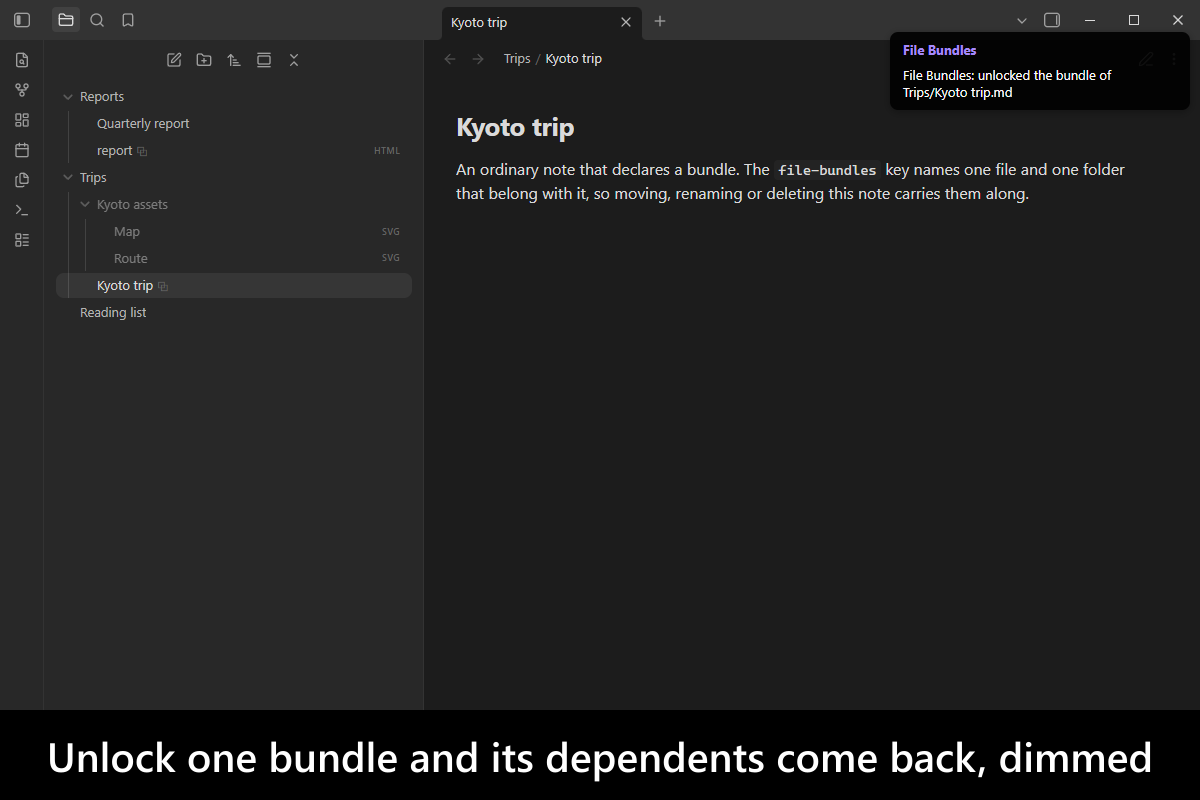
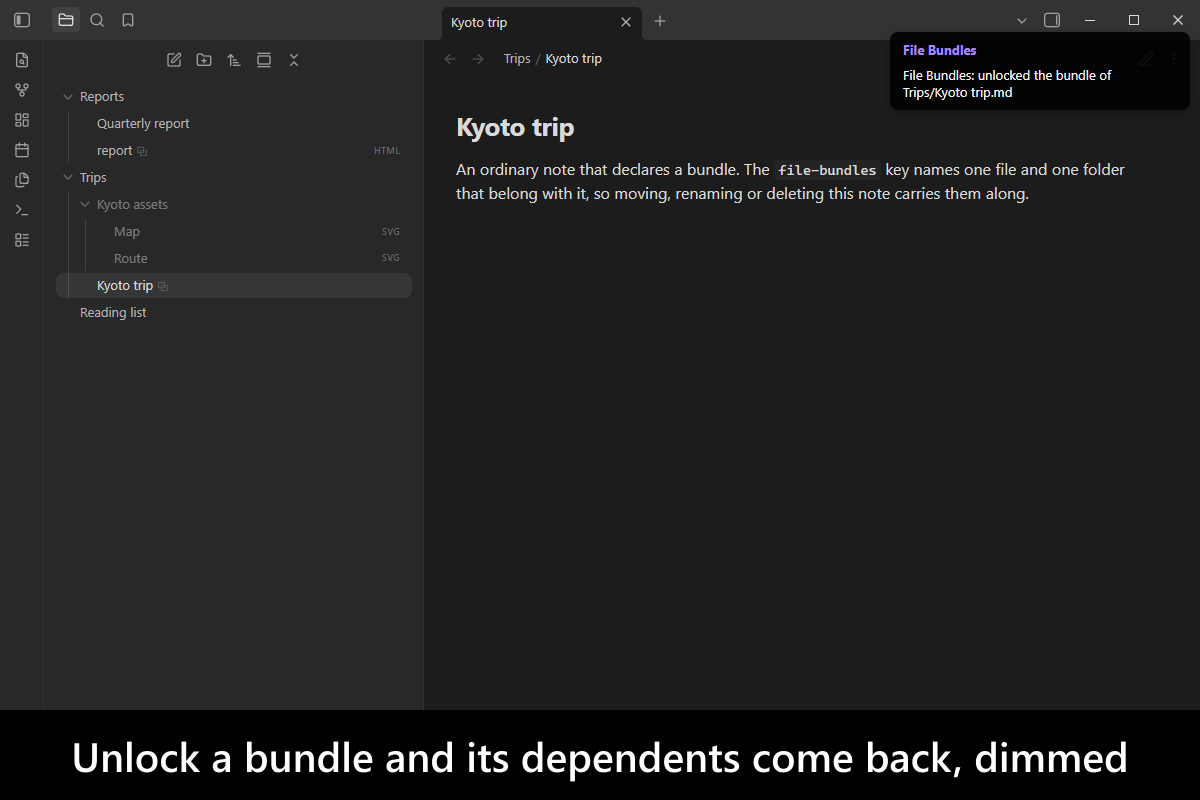
docs(screenshots): shorten the frame 2 caption so it fits the mobile frame
The mobile caption rendered 5 px wider than the 900 px frame, so the capture threw and the committed frame was the clipped one. Both platforms and the README alt text now say "Unlock a bundle". Only the caption band changed in either frame.

Changed region(s): [[0.0308, 0.9062, 0.9558, 0.9688]]

diff --git a/src/screenshots.android-capture.integration.test.ts b/src/screenshots.android-capture.integration.test.ts
@@ -375,7 +375,7 @@ describe('mobile store screenshots', () => {
     // The other bundle is untouched, which is what makes this a per-bundle switch rather than a setting.
     expect(names).not.toContain(REPORT_STYLES_NAME);
 
-    await shoot(2, 'Unlock one bundle and its dependents come back, dimmed');
+    await shoot(2, 'Unlock a bundle and its dependents come back, dimmed');
   }, TEST_TIMEOUT_IN_MILLISECONDS);
 
   it('3 - moving the main file moves the bundle', async () => {

diff --git a/src/screenshots.desktop-capture.integration.test.ts b/src/screenshots.desktop-capture.integration.test.ts
@@ -388,7 +388,7 @@ describe('desktop store screenshots', () => {
     // The other bundle is untouched, which is what makes this a per-bundle switch rather than a setting.
     expect(names).not.toContain(REPORT_STYLES_NAME);
 
-    await shoot(2, 'Unlock one bundle and its dependents come back, dimmed');
+    await shoot(2, 'Unlock a bundle and its dependents come back, dimmed');
   }, TEST_TIMEOUT_IN_MILLISECONDS);
 
   it('3 - the declaration lives in the note', async () => {

diff --git a/README.md b/README.md
@@ -12,12 +12,12 @@ An HTML page and the assets it loads, a note and the images pasted into it, a sc
 <summary>More screenshots</summary>
 
 <div>
-<a href="https://github.com/mnaoumov/obsidian-file-bundles/blob/HEAD/images/screenshots/screenshot-desktop-2.png"><img src="images/screenshots/screenshot-desktop-2.png" alt="Unlock one bundle and its dependents come back, dimmed" width="600"></a>
+<a href="https://github.com/mnaoumov/obsidian-file-bundles/blob/HEAD/images/screenshots/screenshot-desktop-2.png"><img src="images/screenshots/screenshot-desktop-2.png" alt="Unlock a bundle and its dependents come back, dimmed" width="600"></a>
 <a href="https://github.com/mnaoumov/obsidian-file-bundles/blob/HEAD/images/screenshots/screenshot-desktop-3.png"><img src="images/screenshots/screenshot-desktop-3.png" alt="A file declares what belongs with it, in its own frontmatter" width="600"></a>
 <a href="https://github.com/mnaoumov/obsidian-file-bundles/blob/HEAD/images/screenshots/screenshot-desktop-4.png"><img src="images/screenshots/screenshot-desktop-4.png" alt="A sidecar bundles a file that cannot carry frontmatter" width="600"></a>
 <a href="https://github.com/mnaoumov/obsidian-file-bundles/blob/HEAD/images/screenshots/screenshot-desktop-5.png"><img src="images/screenshots/screenshot-desktop-5.png" alt="Move the main file and the whole bundle moves with it" width="600"></a>
 <a href="https://github.com/mnaoumov/obsidian-file-bundles/blob/HEAD/images/screenshots/screenshot-mobile-1.png"><img src="images/screenshots/screenshot-mobile-1.png" alt="A locked bundle hides the files it declares" width="270"></a>
-<a href="https://github.com/mnaoumov/obsidian-file-bundles/blob/HEAD/images/screenshots/screenshot-mobile-2.png"><img src="images/screenshots/screenshot-mobile-2.png" alt="Unlock one bundle and its dependents come back, dimmed" width="270"></a>
+<a href="https://github.com/mnaoumov/obsidian-file-bundles/blob/HEAD/images/screenshots/screenshot-mobile-2.png"><img src="images/screenshots/screenshot-mobile-2.png" alt="Unlock a bundle and its dependents come back, dimmed" width="270"></a>
 <a href="https://github.com/mnaoumov/obsidian-file-bundles/blob/HEAD/images/screenshots/screenshot-mobile-3.png"><img src="images/screenshots/screenshot-mobile-3.png" alt="Move the main file and the whole bundle moves with it" width="270"></a>
 <a href="https://github.com/mnaoumov/obsidian-file-bundles/blob/HEAD/images/screenshots/screenshot-mobile-4.png"><img src="images/screenshots/screenshot-mobile-4.png" alt="A file declares what belongs with it, in its own frontmatter" width="270"></a>
 </div>
